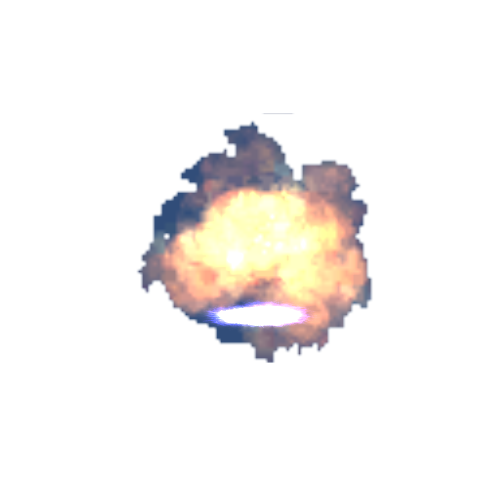
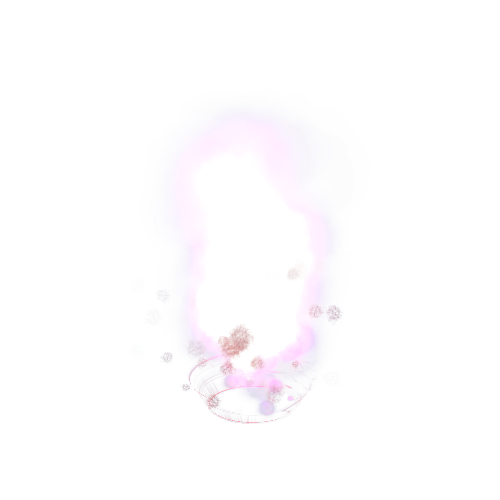
猛擊更新

diff --git a/src/script/SkillCat.ts b/src/script/SkillCat.ts
@@ -23,17 +23,17 @@ export class Slam extends VirtualSkill {
         this.m_animation.scaleY = 1.5;
         //動畫位置需要再調整
 
-        this.m_animation.source = "comp/Slam/Slam_0001.png,comp/Slam/Slam_0002.png,comp/Slam/Slam_0003.png,comp/Slam/Slam_0004.png,comp/Slam/Slam_0005.png,comp/Slam/Slam_0006.png,comp/Slam/Slam_0007.png,comp/Slam/Slam_0008.png,comp/Slam/Slam_0009.png,comp/Slam/Slam_0010.png,comp/Slam/Slam_0011.pngcomp/Slam/Slam_0012.png,comp/Slam/Slam_0013.png,comp/Slam/Slam_0014.png,comp/Slam/Slam_0015.png,comp/Slam/Slam_0016.png,comp/Slam/Slam_0017.png";
-        this.m_animation.pos(rightSide ? position['x'] - 100 : position['x'] - 700, position['y'] - 400);
+        this.m_animation.source = "comp/Slam/Slam_0000.png,comp/Slam/Slam_0001.png,comp/Slam/Slam_0002.png,comp/Slam/Slam_0003.png,comp/Slam/Slam_0004.png,comp/Slam/Slam_0005.png,comp/Slam/Slam_0006.png,comp/Slam/Slam_0007.png,comp/Slam/Slam_0008.png,comp/Slam/Slam_0009.png,comp/Slam/Slam_0010.png,comp/Slam/Slam_0011.pngcomp/Slam/Slam_0012.png,comp/Slam/Slam_0013.png,comp/Slam/Slam_0014.png,comp/Slam/Slam_0015.png,comp/Slam/Slam_0016.png,comp/Slam/Slam_0017.png";
+        this.m_animation.pos(rightSide ? position['x'] - 100 : position['x'] - 700, position['y'] - 550);
         this.m_animation.autoPlay = false;
         this.m_animation.interval = 25;
-        this.m_animation.alpha = 0.8;
+        this.m_animation.alpha = 1;
 
         let colorMat: Array<number> =
             [
-                4, 0, 0, 0, -270, //R
-                0, 2, 0, 0, -100, //G
-                2, 0, 3, 0, -270, //B
+                4, 1, 4, 0, -300, //R
+                0, 4, 0, 0, -100, //G
+                2, 0, 4, 0, -300, //B
                 0, 0, 0, 2, 0, //A
             ];
         let glowFilter: Laya.GlowFilter = new Laya.GlowFilter("#8400ff", 50, 0, 0);

diff --git a/bin/js/bundle.js b/bin/js/bundle.js
@@ -865,15 +865,15 @@
             this.m_animation.height = 350;
             this.m_animation.scaleX = 1.5;
             this.m_animation.scaleY = 1.5;
-            this.m_animation.source = "comp/Slam/Slam_0001.png,comp/Slam/Slam_0002.png,comp/Slam/Slam_0003.png,comp/Slam/Slam_0004.png,comp/Slam/Slam_0005.png,comp/Slam/Slam_0006.png,comp/Slam/Slam_0007.png,comp/Slam/Slam_0008.png,comp/Slam/Slam_0009.png,comp/Slam/Slam_0010.png,comp/Slam/Slam_0011.pngcomp/Slam/Slam_0012.png,comp/Slam/Slam_0013.png,comp/Slam/Slam_0014.png,comp/Slam/Slam_0015.png,comp/Slam/Slam_0016.png,comp/Slam/Slam_0017.png";
-            this.m_animation.pos(rightSide ? position['x'] - 100 : position['x'] - 700, position['y'] - 400);
+            this.m_animation.source = "comp/Slam/Slam_0000.png,comp/Slam/Slam_0001.png,comp/Slam/Slam_0002.png,comp/Slam/Slam_0003.png,comp/Slam/Slam_0004.png,comp/Slam/Slam_0005.png,comp/Slam/Slam_0006.png,comp/Slam/Slam_0007.png,comp/Slam/Slam_0008.png,comp/Slam/Slam_0009.png,comp/Slam/Slam_0010.png,comp/Slam/Slam_0011.pngcomp/Slam/Slam_0012.png,comp/Slam/Slam_0013.png,comp/Slam/Slam_0014.png,comp/Slam/Slam_0015.png,comp/Slam/Slam_0016.png,comp/Slam/Slam_0017.png";
+            this.m_animation.pos(rightSide ? position['x'] - 100 : position['x'] - 700, position['y'] - 550);
             this.m_animation.autoPlay = false;
             this.m_animation.interval = 25;
-            this.m_animation.alpha = 0.8;
+            this.m_animation.alpha = 1;
             let colorMat = [
-                4, 0, 0, 0, -270,
-                0, 2, 0, 0, -100,
-                2, 0, 3, 0, -270,
+                4, 1, 4, 0, -300,
+                0, 4, 0, 0, -100,
+                2, 0, 4, 0, -300,
                 0, 0, 0, 2, 0,
             ];
             let glowFilter = new Laya.GlowFilter("#8400ff", 50, 0, 0);
